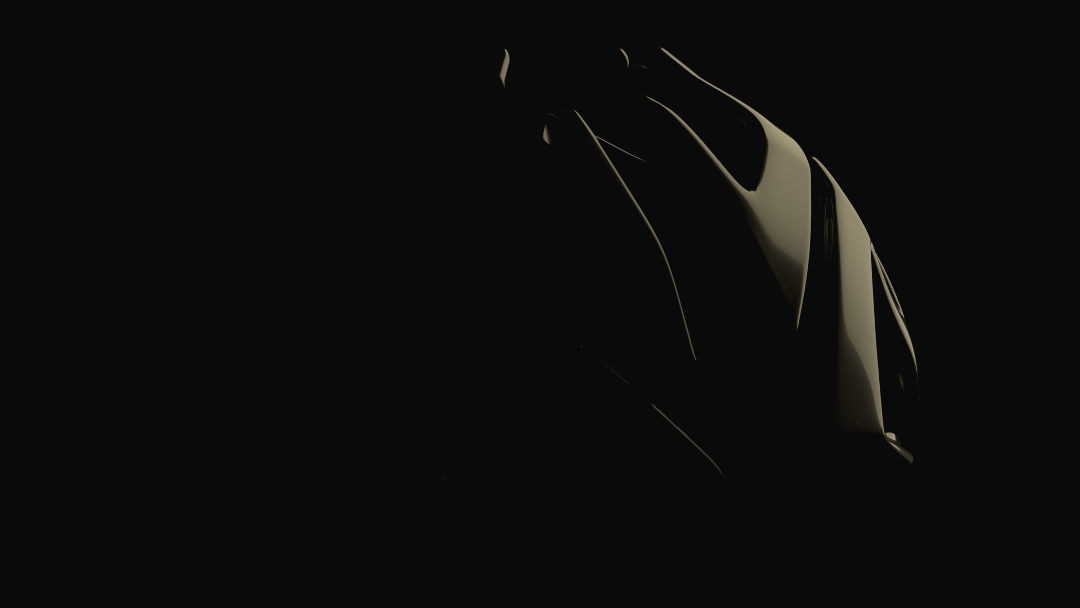
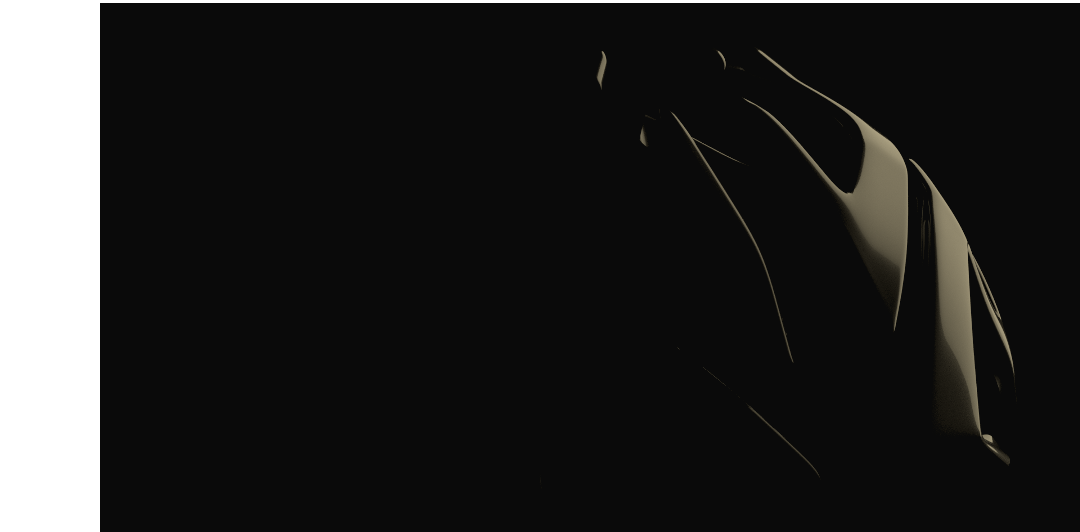
varie

diff --git a/assets/css/main.css b/assets/css/main.css
@@ -291,10 +291,10 @@ body{background-color:#0a0a0a;font-size:14px;line-height:1.6;font-family:"Montse
 .about--banner a{position:relative; padding:5px 17px 5px 0;text-decoration:none;color:#fff;font-weight:700;text-transform:uppercase;background-color:transparent}
 .about--banner a:hover svg{left:10px}
 .about--banner a svg{position:relative;left:5px;width:15px;fill:#fff;-webkit-transition:left .2s ease-in-out;transition:left .2s ease-in-out}
-.about--banner img{position:absolute;margin: auto; top: 0px;right:-50px;width: 900px}
+.about--banner img{position:absolute;margin: auto; top: 0px;right:-50px;width: auto}
 
 .about--options{display:-webkit-box;display:-webkit-flex;display:-ms-flexbox;display:flex;max-width:900px;-webkit-box-pack:justify;-webkit-justify-content:space-between;-ms-flex-pack:justify;justify-content:space-between;margin-top:0;padding:0;list-style:none}
-.about--options>a{position:relative;width:150px;height:75px;text-decoration:none;color:#fff;border:10px solid #696969;background-position:center;background-size:cover;background-repeat:no-repeat}
+.about--options>a{position:relative;width:150px;height:75px;text-decoration:none;color:#fff;border:6px solid #696969;background-position:center;background-size:cover;background-repeat:no-repeat}
 .about--options>a:nth-child(1){background-image:url("../img/Index/sheep.png");filter: grayscale(100%);}
 .about--options>a:nth-child(2){background-image:url("../img/Index/design.png");filter: grayscale(100%);}
 .about--options>a:nth-child(3){background-image:url("../img/Index/rend.png");filter: grayscale(100%);}
@@ -305,7 +305,7 @@ body{background-color:#0a0a0a;font-size:14px;line-height:1.6;font-family:"Montse
 
 
 .op2{display:-webkit-box;display:-webkit-flex;display:-ms-flexbox;display:flex;max-width:900px;-webkit-box-pack:justify;-webkit-justify-content:space-between;-ms-flex-pack:justify;justify-content:space-between;margin-top:0;padding:0;list-style:none}
-.op2>a{position:relative;width:150px;height:75px;text-decoration:none;color:#fff;border:10px solid #696969;background-position:center;background-size:cover;background-repeat:no-repeat}
+.op2>a{position:relative;width:150px;height:75px;text-decoration:none;color:#fff;border:6px solid #696969;background-position:center;background-size:cover;background-repeat:no-repeat}
 .op2>a:nth-child(1){background-image:url("../img/Index/concept.png");filter: grayscale(100%);}
 .op2>a:nth-child(2){background-image:url("../img/Index/test-dummy.png");filter: grayscale(100%);}
 .op2>a:nth-child(3){background-image:url("../img/Index/events.png");filter: grayscale(100%);}

diff --git a/index.html b/index.html
@@ -191,38 +191,38 @@
                     </svg>
                   </span>
                 </a>
-                <img src="assets/img/Index/about.png" alt="About Us" style="z-index: -3">
+                <img id="skill" src="assets/img/Index/about.png" alt="About Us" style="z-index: -3">
               </div>
 
 
 
               <h3>SKILLS</h3>
               <div class="about--options">
-                <a href="#0">
+                <a href="#0" onmouseover="skill.src='assets/img/Index/con.png';" onmouseout="skill.src='assets/img/Index/about.png';">
                   <h3>Concept Development</h3>
                 </a>
-                <a href="#0">
+                <a href="#0" onmouseover="skill.src='assets/img/Index/3dm.png';" onmouseout="skill.src='assets/img/Index/about.png';">
                   <h3>3D Modeling</h3>
                 </a>
-                <a href="#0">
+                <a href="#0" onmouseover="skill.src='assets/img/Index/graf.png'; skill.right='-20px'" onmouseout="skill.src='assets/img/Index/about.png'">
                   <h3>Graphics and 3D Rendering</h3>
                 </a>
-               <a href="#0">
+                <a href="#0" onmouseover="skill.src='assets/img/Index/3dp.png';" onmouseout="skill.src='assets/img/Index/about.png';">
                 <h3>3D Prints</h3>
                 </a>
                             </div>
               <div class="op2" style="margin-top: 75px">
 
-                <a href="#test">
+                <a href="#0" onmouseover="skill.src='assets/img/Index/pro.png'; skill.style.border='6px solid #696969';" onmouseout="skill.src='assets/img/Index/about.png';skill.style.border='0px solid #696969'">
                   <h3>Product Management</h3>
                 </a>
-                <a href="#test">
+                <a href="#0">
                   <h3>Quality Control</h3>
                 </a>
-                <a href="#test">
+                <a href="#0">
                   <h3>Events management</h3>
                 </a>
-                <a href="#test">
+                <a href="#0">
                   <h3>Business Development</h3>
                 </a>
             </div>
